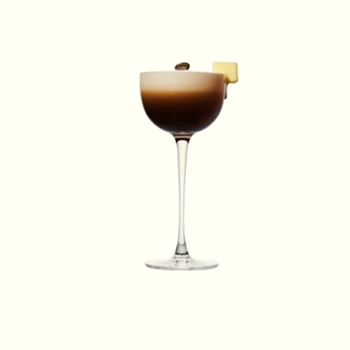
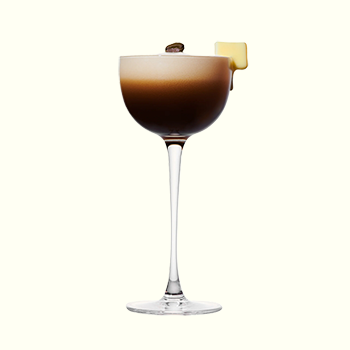
styling

Changed region(s): [[0.3143, 0.1143, 0.7143, 0.9143]]

diff --git a/lab-js-react-team/src/App.css b/lab-js-react-team/src/App.css
@@ -20,7 +20,7 @@
 .cocktail-page {
   display: flex;
   flex-direction: row;
-  height: 100vh;
+  height: 92vh; /* Adjusted to remove the gap */
   width: 100vw;
   overflow: hidden;
   margin: 0;
@@ -32,12 +32,13 @@
   position: relative;
   display: flex;
   flex-direction: column;
-  align-items: flex-start;
-  justify-content: flex-start;
+  align-items: center;
+  justify-content: center;
   height: calc(100vh - 16vh);
   border-bottom: 1.3px solid #000;
   overflow: hidden;
   top: 8vh;
+  margin: 0;
 }
 
 .left-section {
@@ -187,4 +188,40 @@ textarea {
   font-family: "Gill Sans", "Gill Sans MT", Calibri, "Trebuchet MS", sans-serif;
   font-weight: 300;
   padding-right: 1rem;
+}
+
+.down-container {
+  position: relative;
+  height: 50vh;
+  width: 100vw;
+  background-color: #006e3d;
+  margin-bottom: 20vh;
+  overflow: hidden; /* Prevents any child content from overflowing */
+}
+
+.line-top-container {
+  height: 8vh;
+  width: 100%; /* Ensures it fills the width of its parent */
+  border-bottom: 1.3px solid #000;
+  position: relative; /* Optional, depending on your layout needs */
+}
+
+.line-down-container {
+  height: 8vh;
+  width: 100%;
+  border-top: 1.3px solid #000;
+  bottom: 0;
+  position: absolute;
+}
+
+.strip-container {
+  height: 10vh;
+  width: 100vw;
+}
+.text-about-page {
+  width: 70%;
+  font-family: "adobe-handwriting-ernie", sans-serif;
+  font-size: 2rem;
+  color: #000;
+  text-align: center;
 }

diff --git a/lab-js-react-team/src/pages/AboutPage.jsx b/lab-js-react-team/src/pages/AboutPage.jsx
@@ -1,5 +1,30 @@
-function AboutPage() {
-  return <h1>About Us</h1>;
-}
+import "../App.css";
 
+function AboutPage() {
+  return (
+    <div className="full-page-container">
+      <div className="cocktail-page">
+        <div className="left-section">
+          <p className="text-about-page">
+            {/* We are a group of friends that opened a bar, when we realized, that
+            an app where Bartenders get to add their recipes and discover new
+            ones from other Bartenders was long overdue. */}
+            We love drinking so we started an app that helps bartenders get
+            organized and perfect their kraft.
+          </p>
+        </div>
+        <div className="right-section">
+          <img className="image-half" src="../../public/drink2.png" />
+        </div>
+      </div>
+      <div className="strip-container">
+        <p>WE LOVE DRINKING</p>
+      </div>
+      <div className="down-container">
+        <div className="line-top-container"></div>
+        <div className="line-down-container"></div>
+      </div>
+    </div>
+  );
+}
 export default AboutPage;

diff --git a/lab-js-react-team/src/components/DrinkCard/DrinkCard.css b/lab-js-react-team/src/components/DrinkCard/DrinkCard.css
@@ -10,31 +10,31 @@
 }
 
 .image-container {
-  display: flex; /* Add flex display */
-  justify-content: center; /* Center horizontally */
-  align-items: center; /* Center vertically */
+  display: flex;
+  justify-content: center;
+  align-items: center;
   height: 76%;
   overflow: hidden;
 }
 .top-container {
-  display: flex; /* Add flex display */
-  justify-content: center; /* Center horizontally */
-  align-items: center; /* Align items vertically to the center */
+  display: flex;
+  justify-content: center;
+  align-items: center;
   height: 12%;
   border-bottom: 1.3px solid #000;
 }
 
 .bottom-container {
-  display: flex; /* Add flex display */
-  justify-content: center; /* Center horizontally */
-  align-items: center; /* Align items vertically to the center */
+  display: flex;
+  justify-content: center;
+  align-items: center;
   height: 12%;
   border-top: 1.3px solid #000;
 }
 
 h3 {
-  font-family: "Mondwest-bold";
-  font-size: 1.2rem;
+  font-family: "adobe-handwriting-ernie", sans-serif;
+  font-size: 1.3rem;
   color: #000;
   text-align: center;
 }

diff --git a/lab-js-react-team/index.html b/lab-js-react-team/index.html
@@ -3,8 +3,9 @@
   <head>
     <meta charset="UTF-8" />
     <link rel="icon" type="image/svg+xml" href="/vite.svg" />
+    <link rel="stylesheet" href="https://use.typekit.net/bqf3szs.css" />
     <meta name="viewport" content="width=device-width, initial-scale=1.0" />
-    <title>Recipe Book</title>
+    <title>Pour Decisions</title>
   </head>
   <body>
     <div id="root"></div>

diff --git a/lab-js-react-team/src/pages/AddRecipePage.jsx b/lab-js-react-team/src/pages/AddRecipePage.jsx
@@ -95,7 +95,7 @@ function AddRecipe() {
                       value={ingredients}
                       onChange={(e) => setIngredients(e.target.value)}
                       autoFocus
-                      rows="4" // You can set the number of rows to define its height
+                      rows="6"
                     />
                   )}
                 </div>
